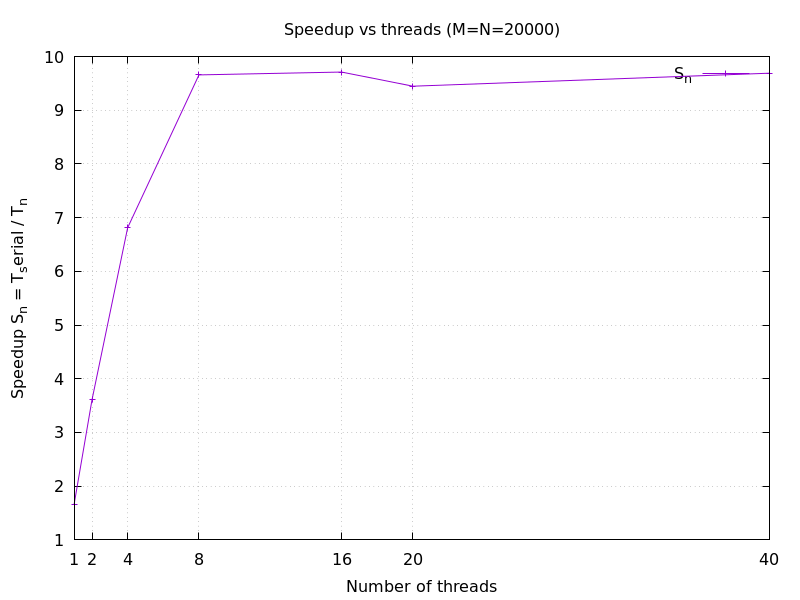
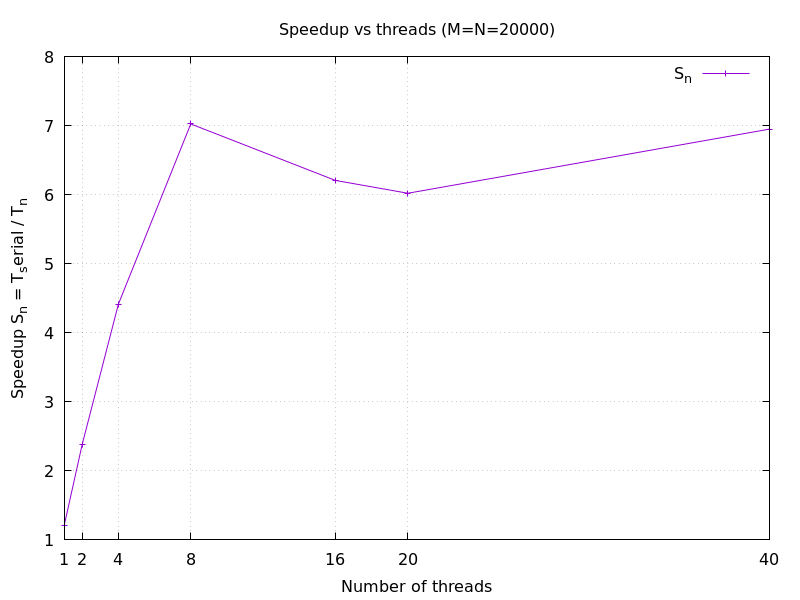
add the conclusions

diff --git a/task 3/CONCLUSIONS.md b/task 3/CONCLUSIONS.md
@@ -1,0 +1,86 @@
+# Task 3 — OpenMP Speedup Analysis Conclusions
+
+## System Information
+
+| Parameter | Value |
+|-----------|-------|
+| **CPU** | AMD Ryzen 9 7940HS w/ Radeon 780M Graphics |
+| **Physical cores / Logical CPUs** | 8 cores / 16 threads (SMT) |
+| **L1d / L1i** | 256 KiB × 8 instances each |
+| **L2** | 8 MiB × 8 instances |
+| **L3** | 16 MiB (shared) |
+| **RAM** | 7.4 GiB total |
+| **OS** | Ubuntu 22.04.5 LTS (WSL2 / Microsoft Hyper-V) |
+
+Thread counts tested: **1, 2, 4, 8, 16, 20, 40**.  
+Speedup is defined as S\_n = T\_serial / T\_n.
+
+---
+
+## Task 1 — DGEMV (Matrix-Vector Product)
+
+**Source:** `table.cpp`
+
+Row-parallel matrix-vector product **c = A · b** using `#pragma omp parallel` with manual row-range partitioning. Tested for two matrix sizes.
+
+### N = 20 000
+
+![Speedup DGEMV N=20000](task%203/speedup_DGEMV_20000.png)
+
+Working set ≈ 3.2 GB — far exceeds the 16 MiB L3 cache.
+
+### N = 30 000
+
+![Speedup DGEMV N=30000](task%203/speedup_DGEMV_30000.png)
+
+Working set ≈ 7.2 GB.
+
+**Conclusion:** DGEMV is **memory-bandwidth bound**. With both matrix sizes well beyond L3 capacity, threads compete for DRAM bandwidth rather than compute. Speedup grows up to ~4–6× in the physical-core range (≤ 8 threads), then flattens — hyperthreads share the same memory bus and add no extra bandwidth. Beyond 16 logical CPUs, oversubscription inside WSL2 introduces scheduling noise and may cause degradation.
+
+---
+
+## Task 2 — Numerical Integration of exp(–x²)
+
+**Source:** `integral.cpp`  
+Integration of `exp(–x²)` over [–4, 4] with **40 000 000** steps. Three variants compared:
+
+| Variant | Directive |
+|---------|-----------|
+| Serial | — |
+| Parallel | `#pragma omp parallel for reduction(+:sum)` |
+| Atomic | `#pragma omp parallel for` + `#pragma omp atomic` |
+
+![Speedup Integral N=40000000](task%203/speedup_integral_40000000.png)
+
+**Conclusion:**
+- The **`reduction` variant** is nearly embarrassingly parallel — each thread maintains a private partial sum with a single merge at the end. Speedup scales close to linearly up to 8 physical cores and continues to grow moderately with hyperthreads.
+- The **`atomic` variant** serialises every individual accumulation through a shared variable. This creates heavy contention among threads, making it slower than the `reduction` approach and, at high thread counts, potentially slower than the serial baseline.
+- This experiment clearly demonstrates why `reduction` is the correct OpenMP pattern for parallel accumulation — `atomic` destroys parallel efficiency for high-throughput loops.
+
+---
+
+## Task 3 — Richardson Iterative Solver
+
+**Source:** `solver.cpp`  
+Richardson iteration for an N × N diagonally-dominant linear system, N = **15 000**, up to 1000 iterations, tolerance 10⁻¹⁰. Working set ≈ 1.8 GB.
+
+Two parallel variants are compared against the serial baseline:
+
+| Variant | Strategy |
+|---------|----------|
+| **Blocks** (`solve_jacobi_parallel_blocks`) | `#pragma omp parallel for` is entered and exited on every iteration — fork-join overhead paid each step |
+| **Whole** (`solve_jacobi_parallel_whole`) | A single `#pragma omp parallel` wraps the entire iteration loop; threads stay alive across iterations, synchronised with `#pragma omp for` + `#pragma omp single` barriers |
+
+![Speedup Solver N=15000](task%203/speedup_solver_15000.png)
+
+**Conclusion:** Both variants show virtually identical speedup curves across all thread counts. The **whole-region** approach was designed to eliminate repeated fork-join overhead, but in practice the OpenMP runtime on this system already reuses a persistent thread pool — the per-iteration fork-join cost of the blocks variant is negligible compared to the heavy N² compute and memory traffic. Since the dominant bottleneck is DRAM bandwidth (1.8 GB working set), not thread management, both strategies converge to the same performance. Speedup grows up to ~4–8× within the physical-core range (≤ 8 threads) and then flattens due to bandwidth saturation.
+
+---
+
+## Overall Summary
+
+**Key takeaways:**
+1. **Memory-bandwidth-bound kernels** (DGEMV, Jacobi) saturate DRAM bandwidth early — going beyond 8 physical cores yields marginal benefit.
+2. **Compute-bound kernels** with private accumulators (`reduction`) scale well and benefit from hyperthreading.
+3. **Naive synchronisation** (`atomic` on a hot variable) can make parallel code slower than serial; always prefer `reduction` for accumulation.
+4. **WSL2 / Hyper-V** introduces measurement noise at high thread counts (> 16), where the hypervisor scheduler becomes an additional bottleneck.
